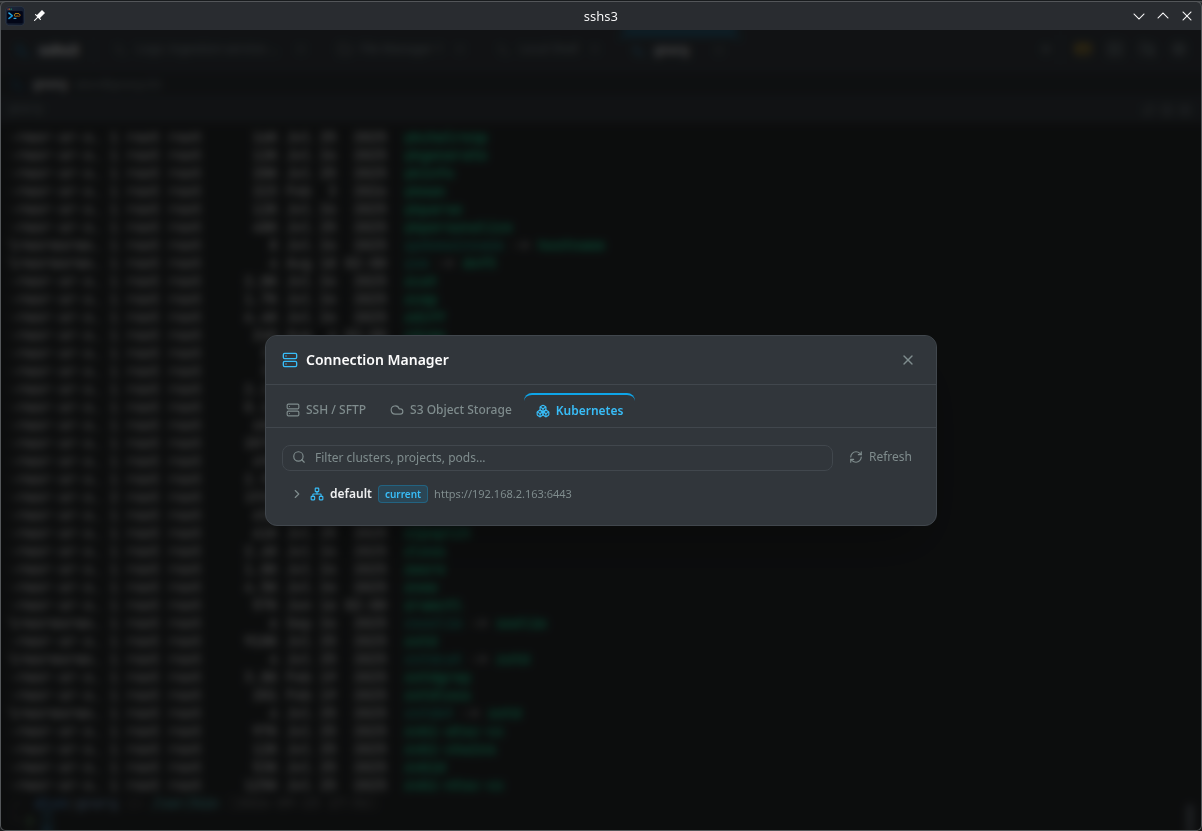
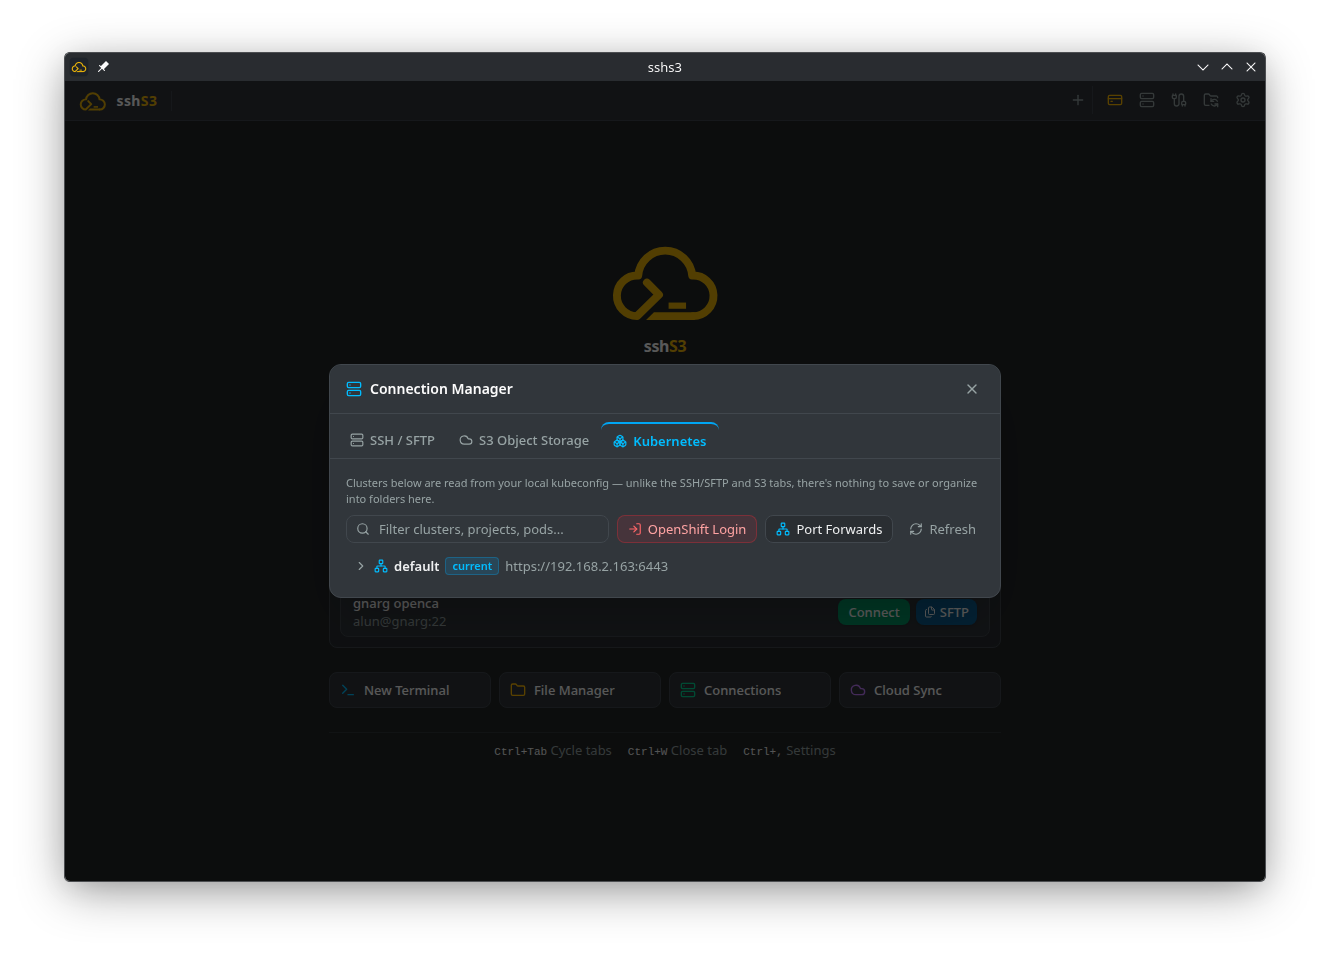
docs: update screenshots and correct FIDO2 SFTP limitation in README
Replace screenshots with the new ones from sshs3.com, add start screen, Markdown
preview and SSH tunnels, and state that FIDO2 profiles have no SFTP on any platform.

diff --git a/README.md b/README.md
@@ -19,11 +19,15 @@
   <summary><b>🖥 Terminal & Split Views</b> (SSH, Local Shell, Windows)</summary>
   <br>
   <p align="center">
+    <img src="docs/screenshots/landing.png" alt="sshS3 start screen" width="850" />
+    <br><em>Start screen with quick access to terminals, the file manager, saved connections and cloud sync</em>
+  </p>
+  <p align="center">
     <img src="docs/screenshots/ssh.png" alt="SSH terminal session" width="850" />
     <br><em>Full OpenSSH terminal session with remote host tracking and tab management</em>
   </p>
   <p align="center">
-    <img src="docs/screenshots/split.png" alt="Split terminal panes" width="850" />
+    <img src="docs/screenshots/split.png" alt="Three split panes: remote SSH, local shell and a second SSH session" width="850" />
     <br><em>Konsole-style recursive split panes (horizontal & vertical) with independent sessions</em>
   </p>
   <p align="center">
@@ -40,7 +44,7 @@
   <summary><b>☸ Kubernetes & OpenShift</b> (Cluster Tree, Pods, Exec, Logs, File Explorer & Live Debugging)</summary>
   <br>
   <p align="center">
-    <img src="docs/screenshots/conn-k8s.png" alt="Kubernetes connection tree" width="850" />
+    <img src="docs/screenshots/conn-k8s.png" alt="Connection Manager Kubernetes tab" width="850" />
     <br><em>Lazy-loading Kubernetes & OpenShift cluster tree from ~/.kube/config</em>
   </p>
   <p align="center">
@@ -48,7 +52,7 @@
     <br><em>Dual-pane file explorer inside running Kubernetes & OpenShift containers</em>
   </p>
   <p align="center">
-    <img src="docs/screenshots/k8s-debug.png" alt="Kubernetes ephemeral pod debugging" width="850" />
+    <img src="docs/screenshots/k8s-debug.png" alt="Attach Debug Container dialog with Netshoot preset" width="850" />
     <br><em>Live ephemeral pod debugging (kubectl debug) with preset tools and process namespace sharing</em>
   </p>
   <p align="center">
@@ -65,8 +69,12 @@
   <summary><b>📁 Dual-Pane File Manager & S3 Object Storage</b> (SFTP, S3, Directory Sync)</summary>
   <br>
   <p align="center">
-    <img src="docs/screenshots/filemanager.png" alt="Dual-pane file manager" width="850" />
+    <img src="docs/screenshots/filemanager.png" alt="Dual-pane file manager with an S3 bucket and local disk, showing the context menu" width="850" />
     <br><em>Dual-pane file explorer for local disk, SFTP servers, and S3 buckets</em>
+  </p>
+  <p align="center">
+    <img src="docs/screenshots/markdown.png" alt="Built-in editor showing a rendered Markdown preview" width="850" />
+    <br><em>In-app editor with live Markdown preview</em>
   </p>
   <p align="center">
     <img src="docs/screenshots/sftp-options.png" alt="SFTP options and permissions" width="850" />
@@ -77,8 +85,17 @@
     <br><em>S3 connection setup (AWS, MinIO, NetApp) with AWS SSO support</em>
   </p>
   <p align="center">
-    <img src="docs/screenshots/s3-options.png" alt="S3 bucket options" width="850" />
+    <img src="docs/screenshots/s3-options.png" alt="S3 bucket next to a Kubernetes pod filesystem, with bucket policy, CORS and versioning in the context menu" width="850" />
     <br><em>Bucket management: policies, CORS configuration, tagging, and object versioning</em>
+  </p>
+</details>
+
+<details>
+  <summary><b>🔀 SSH Tunnels</b> (Local, Remote, SOCKS)</summary>
+  <br>
+  <p align="center">
+    <img src="docs/screenshots/ssh-tunnels.png" alt="SSH Tunnels dialog listing saved forwards per connection" width="850" />
+    <br><em>Saved port forwards (-L / -R / -D) per connection</em>
   </p>
 </details>
 
@@ -549,7 +566,7 @@ sshs3 is one codebase, but the Windows build can't do everything the Linux build
 |---|---|---|
 | FIDO2 **resident** (discoverable) keys | Supported (`ssh-add -K`, `ykman`) | **Not available** — use a key file instead |
 | FIDO2 key file (`id_ed25519_sk`) in the **terminal** | Supported | Supported (PIN + touch on every connection) |
-| FIDO2 in the **SFTP file manager** | Needs the key loaded in an `ssh-agent` | **Not available** (SFTP button is disabled) |
+| FIDO2 in the **SFTP file manager** | **Not available** (SFTP button is disabled) | **Not available** (SFTP button is disabled) |
 | FIDO2 PIN caching / global agent / startup unlock | Supported | **Not applicable** |
 | Listing / deleting resident credentials | Via `ykman` | Not available (`ykman` needs Administrator) |
 | Smartcard (PKCS#11) PIN caching | Private `ssh-agent` per app/terminal | Shared Windows **ssh-agent service** (see below) |
@@ -564,7 +581,7 @@ sshs3 is one codebase, but the Windows build can't do everything the Linux build
 - **Use a key file instead.** In the profile, leave *resident* unticked and use **Generate a new key on this security key** (or pick an existing `id_ed25519_sk` / `id_ecdsa_sk`). Windows signs through its own WebAuthn support, which needs no Administrator rights. Add the new public key to the server's `authorized_keys`.
   - If generation fails with `A resident key scoped to 'ssh:…' already exists … Overwrite key in token (y/n)?`, the device already holds a resident credential with that name from an earlier attempt. Untick *resident* (recommended on Windows), or use a different output file name.
 - **A touch is required on every connection.** A FIDO2 key created with *Require PIN + touch* needs a physical touch for every signature, so there is nothing to cache — the global agent, *Once per terminal* and *Always prompt* modes only affect smartcards (PKCS#11) on Windows. The Settings page says so.
-- **No SFTP file manager for FIDO2 profiles.** The file manager's embedded SSH library can't use security-key (`-sk`) keys, even when the key is loaded in an `ssh-agent`. On Windows the **SFTP** buttons are greyed out for FIDO2 profiles (with an explanation on hover), and opening one anyway explains why instead of failing after a PIN/touch prompt. The terminal works normally. For file transfers, create a **separate profile** with a regular SSH key or a smartcard.
+- **No SFTP file manager for FIDO2 profiles.** The file manager's embedded SSH library can't use security-key (`-sk`) keys, even when the key is loaded in an `ssh-agent`. On every platform the **SFTP** buttons are greyed out for FIDO2 profiles (with an explanation on hover), and opening one anyway explains why instead of failing after a PIN/touch prompt. The terminal works normally. For file transfers, create a **separate profile** with a regular SSH key or a smartcard.
 - **Be careful with repeated PIN attempts.** A FIDO2 key counts failed/rapid PIN verifications and temporarily blocks PIN entry until it's unplugged and reconnected. Unplug/replug it if you see that message (the wording of that hint was verified on Linux; on Windows a similar-looking `failure -1` is usually the resident-key limitation above).
 
 ### Smartcards / PKCS#11
